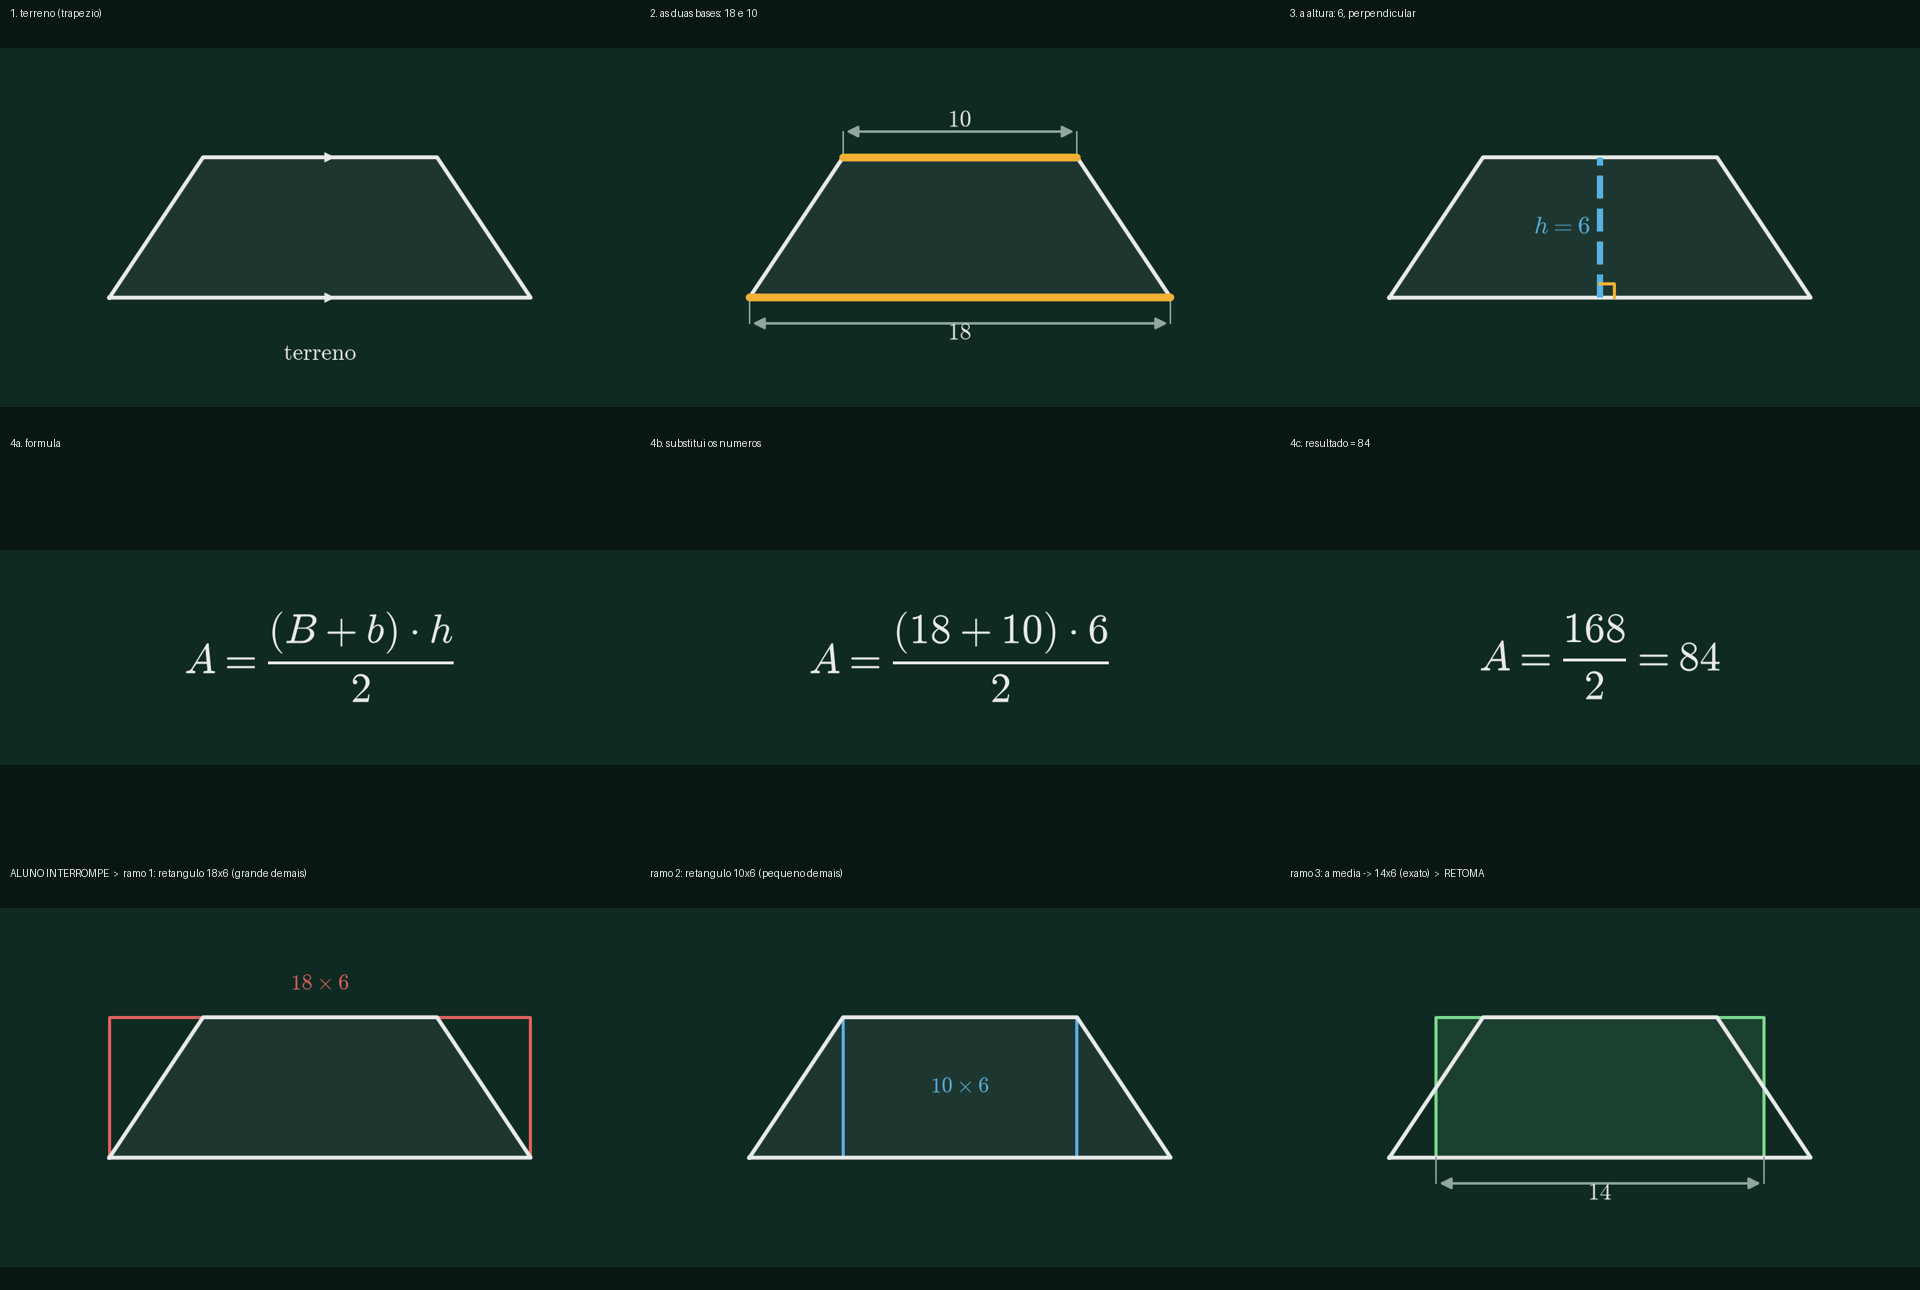
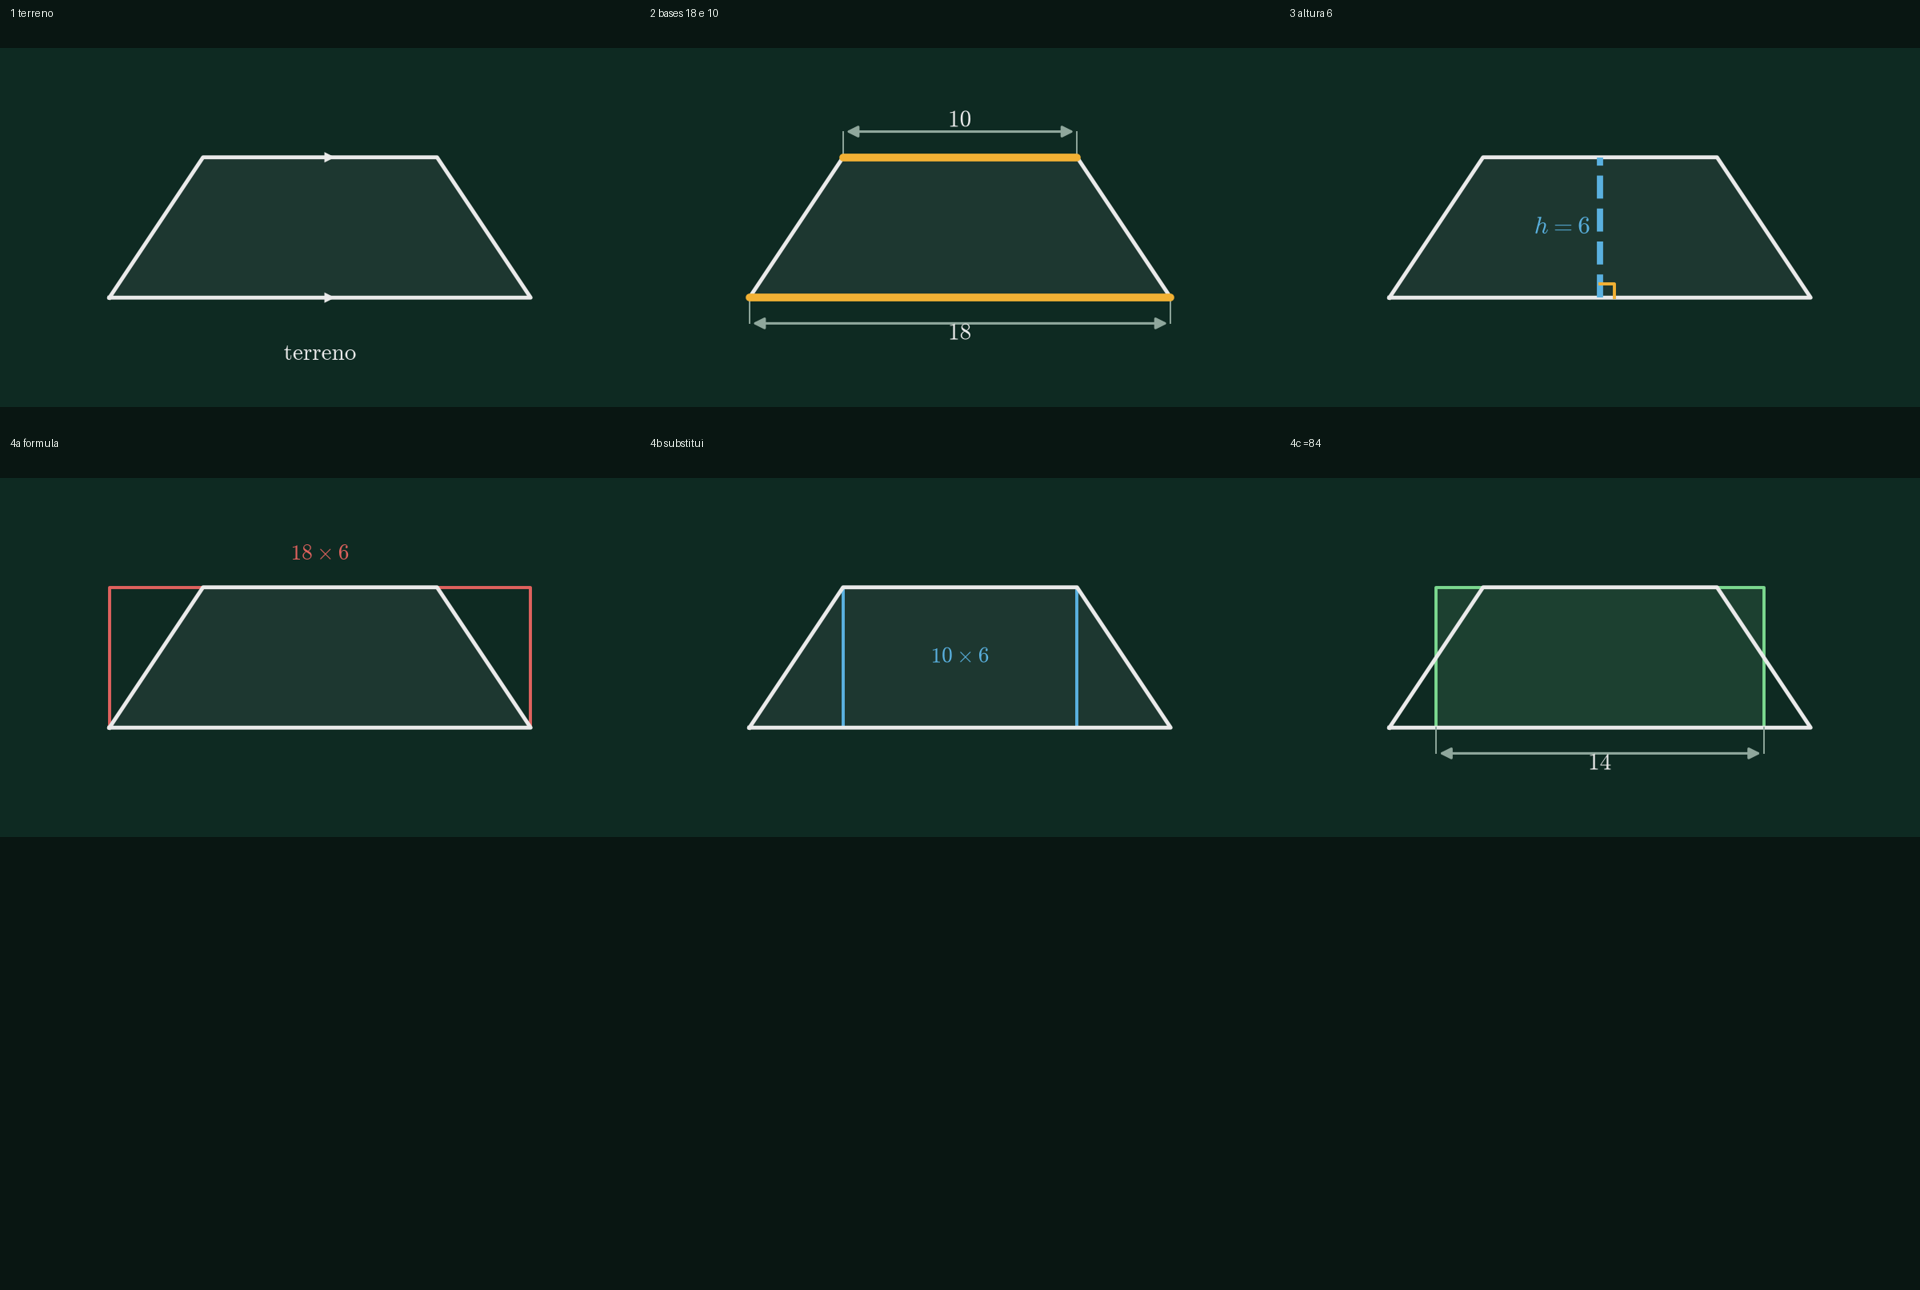
interrupção real + filler; few-shot enxuto
- tocador.py: falar() pode devolver a fala do aluno → classifica → filler
  imediato (fillers.py, banco de frases, zero LLM) → ramo (já na memória) → retoma.
  Interrupção dentro do ramo troca de ramo. Sai do modo 'interrupcoes' scriptado.
- fillers.py: 'estou aqui' instantâneo por gatilho. O padrão 'dois LLMs' que os
  sistemas de voz usam — mas aqui os ramos são pré-escritos, latência zero, então
  o filler é frase fixa. LLM rápido só faria sentido no cold start.
- planejador.py: few-shot virou esqueleto curto (área do triângulo, ~400 tok em
  vez de ~1500). num_ctx 8192 de volta, timeout 200s — o 12288 + few-shot gordo
  estourava o timeout no 3050.
- demo.py: falar() dublê que 'ouve' o aluno num ponto marcado (mesma máquina do
  pipeline de voz).

Claude-Session: https://claude.ai/code/session_01TtQc7aQ6h17sxMqQj9ZgiR

diff --git a/professor/tocador.py b/professor/tocador.py
@@ -1,14 +1,17 @@
 """tocador.py — executa uma Aula. É a "orquestração": LLM ≠ renderizador ≠ voz.
 
-    falar     : injetado — no MVP é print; no produto é o Piper.
-    desenhar  : injetado — no MVP salva PNG; no produto é a tela.
+    falar(texto) -> str | None   injetado. Fala. Se o aluno interromper, devolve a
+                                 fala dele (transcrita); senão, None.
+    desenhar(png, rotulo)        injetado. Mostra a figura.
 
-    t = Tocador()
-    t.toca(aula, interrupcoes={2: "por_que"})   # aluno interrompe no bloco 2
+    t = Tocador(falar=..., desenhar=...)
+    t.toca(aula)                              # interrupção real, via retorno do falar
+    t.toca(aula, interrupcoes={4: "por_que_div_2"})   # demo scriptada (sem voz)
 
-O Tocador não sabe geometria nem aritmética. Ele lê o gerador do bloco, pede pro
-`esquema.GERADORES` renderizar/calcular, e toca. O estado (onde parou, que figura
-está na tela, os dados) mora no `EstadoAula`.
+O Tocador não sabe geometria nem aritmética. Lê o gerador do bloco, pede pro
+`esquema.GERADORES` renderizar/calcular, toca. O estado (onde parou, que figura está
+na tela, os dados) mora no `EstadoAula`. Quem interpreta a fala do aluno é o
+`classificador`; quem dá o "estou aqui" imediato é o `fillers`.
 """
 from __future__ import annotations
 
@@ -16,8 +19,10 @@ import time
 from pathlib import Path
 from typing import Callable
 
+from professor.classificador import classificar
 from professor.esquema import GERADORES, Aula
 from professor.estado import EstadoAula
+from professor.fillers import filler_para
 from professor.figuras import primitivas
 
 _ESPERA = {"curta": 0.35, "media": 0.9, "longa": 1.8, None: 0.55}
@@ -36,6 +41,7 @@ class Tocador:
     # ---------------------------------------------------------------- stubs MVP
     def _falar_stub(self, txt: str) -> None:
         print(f"  🔊 {txt}")
+        return None
 
     def _desenhar_stub(self, png: bytes, rotulo: str) -> None:
         self._n += 1
@@ -51,57 +57,73 @@ class Tocador:
             return g.fn(spec.get("spec", {})), "figura"
         return g.fn(**(spec.get("params") or {})), nome
 
-    def _toca_bloco(self, bloco: dict) -> None:
-        # a figura aparece, o professor fala sobre ela, e a conta se desenrola.
+    def _toca_bloco(self, bloco: dict) -> str | None:
+        """Toca um bloco. Devolve a fala do aluno se ele interrompeu, senão None."""
         if bloco.get("figura"):
             png, rot = self._figura_bytes(bloco["figura"])
             self.desenhar(png, rot)
         if bloco.get("diz"):
-            self.falar(bloco["diz"])
+            fala = self.falar(bloco["diz"])
+            if fala:
+                return fala
         if bloco.get("calc"):
             c = bloco["calc"]
             r = GERADORES[c["gerador"]].fn(**(c.get("params") or {}))
             passos = r.passos if bloco.get("mostra_passos") else r.passos[-1:]
             for i, latex in enumerate(passos):
-                self.desenhar(primitivas.passo(latex), f"passo{i+1}")
+                self.desenhar(primitivas.passo(latex), f"passo{i + 1}")
                 if self.pausas:
                     time.sleep(0.5)
             bloco["_resultado"] = r.valor
         if self.pausas:
             time.sleep(_ESPERA.get(bloco.get("espera"), 0.55))
+        return None
 
     # ---------------------------------------------------------------- topo
-    def toca(self, aula: Aula, *, interrupcoes: dict[int, str] | None = None,
-             classificador: Callable[[str], str] | None = None) -> EstadoAula:
-        """interrupcoes: {n_do_bloco (1-based na principal): gatilho} — demo scriptada."""
+    def toca(self, aula: Aula, *, interrupcoes: dict[int, str] | None = None) -> EstadoAula:
         est = EstadoAula(aula)
-        interrupcoes = dict(interrupcoes or {})
+        script = dict(interrupcoes or {})
         print(f"\n═══ {aula.titulo} ═══")
-        passo_principal = 0
+        n_princ = 0
         while (bloco := est.proximo()) is not None:
             if est.na_principal:
-                passo_principal += 1
-            marca = "│" if est.na_principal else "└─ramo"
-            print(f"{marca} bloco {est.trilha.posicao}")
-            self._toca_bloco(bloco)
+                n_princ += 1
+            print(f"{'│' if est.na_principal else '└'} bloco {est.trilha.posicao}")
+            fala = self._toca_bloco(bloco)
 
-            gat = interrupcoes.pop(passo_principal, None) if est.na_principal else None
+            gat = None
+            if fala:                                   # interrupção real (voz)
+                gat = classificar(fala, est.aula.ramos) or "por_que"
+                print(f'  ✋ "{fala}"  →  {gat}')
+            elif est.na_principal and n_princ in script:   # interrupção scriptada
+                gat = script.pop(n_princ)
+                print(f"  ✋ (script) → {gat}")
+
             if gat:
-                print(f"\n  ✋ aluno interrompe → '{gat}'")
-                if not est.entra_ramo(gat):
-                    print(f"     (sem ramo '{gat}' — professor improvisa)")
-                    self.falar("Boa pergunta. Deixa eu pensar num jeito melhor de mostrar isso.")
-                else:
-                    for rb in est.drena_ramo():
-                        print(f"└─ramo {est.trilha.posicao}")
-                        self._toca_bloco(rb)
-                self.falar("Voltando de onde a gente parou.")
-                print(f"  ↩  {est.resumo()}\n")
+                self._entra_ramo(est, gat)
         print(f"\n■ fim — {est.resumo()}")
         return est
 
+    def _entra_ramo(self, est: EstadoAula, gat: str) -> None:
+        self.falar(filler_para(gat))                    # "estou aqui" imediato
+        if not est.entra_ramo(gat):
+            self.falar("Boa pergunta. Deixa eu achar um jeito melhor de mostrar isso.")
+            return
+        for rb in est.drena_ramo():
+            print(f"  └ ramo {est.trilha.posicao}")
+            nova = self._toca_bloco(rb)
+            if nova:                                    # aluno interrompe DENTRO do ramo
+                g2 = classificar(nova, est.aula.ramos)
+                print(f'    ✋ "{nova}"  →  {g2}')
+                if g2 and g2 != gat:
+                    est.sai_ramo()
+                    self._entra_ramo(est, g2)
+                    return
+        self.falar("Voltando de onde a gente parou.")
+        print(f"  ↩  {est.resumo()}")
+
 
 if __name__ == "__main__":
-    from professor.planejador import planeja_offline
+    from professor.aulas import carregar
 
-    Tocador(pausas=False).toca(planeja_offline(), interrupcoes={3: "por_que"})
+    Tocador(pausas=False).toca(carregar("trapezio"), interrupcoes={4: "por_que_div_2"})

diff --git a/professor/planejador.py b/professor/planejador.py
@@ -19,7 +19,6 @@ import urllib.error
 import urllib.request
 
 from professor import validador
-from professor.aulas import TRAPEZIO
 from professor.esquema import Aula, catalogo_para_prompt
 
 PROVEDOR = os.environ.get("PROF_LLM", "ollama")
@@ -28,14 +27,35 @@ MODELO = os.environ.get("PROF_MODELO", "hermes3:8b")
 CLAUDE_MODELO = os.environ.get("PROF_CLAUDE_MODEL", "claude-sonnet-5")
 
 
+_FEWSHOT = json.dumps({
+    "titulo": "Área do triângulo",
+    "topico": "area_triangulo",
+    "dados": {"base": 8, "altura": 5},
+    "blocos": [
+        {"diz": "Esse é um triângulo. A base mede oito, e a altura, cinco.",
+         "figura": {"gerador": "triangulo", "params": {"tipo": "acutangulo"}},
+         "espera": "media"},
+        {"diz": "A área do triângulo é base vezes altura, dividido por dois.",
+         "calc": {"gerador": "area_triangulo", "params": {"base": 8, "altura": 5}},
+         "mostra_passos": True, "espera": "longa"},
+        {"diz": "Vinte. Essa é a área.", "espera": "media"},
+    ],
+    "ramos": {
+        "por_que_div_2": [
+            {"diz": "Porque o triângulo é metade de um retângulo de mesma base e altura. "
+                    "Encaixa dois triângulos iguais e vira um retângulo.",
+             "figura": {"gerador": "quadrilatero", "params": {"tipo": "retangulo"}},
+             "espera": "longa"}],
+        "nao_entendi": [
+            {"diz": "Sem pressa. Primeiro a base: oito. Depois a altura: cinco. Multiplica: "
+                    "quarenta. Divide por dois: vinte.",
+             "espera": "longa"}],
+    },
+}, ensure_ascii=False)
+
+
 def _fewshot() -> str:
-    """A aula de ouro do trapézio, enxugada — o LLM copia o padrão."""
-    ex = {"titulo": TRAPEZIO["titulo"], "topico": TRAPEZIO["topico"],
-          "dados": {k: TRAPEZIO["dados"][k] for k in ("B", "b", "h")},
-          "blocos": TRAPEZIO["blocos"][:4],
-          "ramos": {"por_que_div_2": TRAPEZIO["ramos"]["por_que_div_2"][:2],
-                    "nao_entendi": TRAPEZIO["ramos"]["nao_entendi"][:1]}}
-    return json.dumps(ex, ensure_ascii=False, indent=1)
+    return _FEWSHOT
 
 PROMPT = f"""Você é o planejador de um professor de matemática que fala e desenha ao vivo.
 
@@ -85,7 +105,7 @@ Regras:
 - 4 a 8 blocos no plano principal. Frases curtas, faladas, como um bom professor.
 - Use SÓ os geradores do catálogo abaixo, com esses parâmetros.
 
-EXEMPLO de um plano bom (área do trapézio):
+EXEMPLO de um plano bom (área do triângulo — copie a ESTRUTURA, não o conteúdo):
 {_fewshot()}
 
 CATÁLOGO:
@@ -93,13 +113,13 @@ CATÁLOGO:
 """
 
 
-def _ollama_json(mensagens: list[dict], *, timeout: float = 120) -> str:
+def _ollama_json(mensagens: list[dict], *, timeout: float = 200) -> str:
     corpo = json.dumps({
         "model": MODELO,
         "messages": mensagens,
         "stream": False,
         "format": "json",
-        "options": {"temperature": 0.2, "num_ctx": 12288},
+        "options": {"temperature": 0.2, "num_ctx": 8192},
     }).encode()
     req = urllib.request.Request(f"{OLLAMA}/api/chat", data=corpo,
                                  headers={"Content-Type": "application/json"})
@@ -107,7 +127,7 @@ def _ollama_json(mensagens: list[dict], *, timeout: float = 120) -> str:
         return json.loads(r.read())["message"]["content"]
 
 
-def _claude_json(mensagens: list[dict], *, timeout: float = 120) -> str:
+def _claude_json(mensagens: list[dict], *, timeout: float = 200) -> str:
     chave = os.environ.get("ANTHROPIC_API_KEY")
     if not chave:
         raise ConnectionError("PROF_LLM=claude mas ANTHROPIC_API_KEY não está definida")
@@ -129,7 +149,7 @@ def _claude_json(mensagens: list[dict], *, timeout: float = 120) -> str:
     return "".join(b.get("text", "") for b in d.get("content", []) if b.get("type") == "text")
 
 
-def _llm_json(mensagens: list[dict], *, timeout: float = 120) -> str:
+def _llm_json(mensagens: list[dict], *, timeout: float = 200) -> str:
     return (_claude_json if PROVEDOR == "claude" else _ollama_json)(mensagens, timeout=timeout)
 
 

diff --git a/demo.py b/demo.py
@@ -1,11 +1,12 @@
-"""demo.py — o Ciclo do Trapézio, ponta a ponta, sem voz (ainda).
+"""demo.py — o Ciclo do Trapézio, ponta a ponta, sem áudio (ainda).
 
-    .venv/bin/python demo.py                 # aluno pergunta "por que /2" no bloco 4
-    .venv/bin/python demo.py e_triangulo 3   # outro ramo, em outro ponto
+    .venv/bin/python demo.py                          # aluno fala "por que /2" no 4º "diz"
+    .venv/bin/python demo.py "e se fosse um triangulo?" 2
 
-Mostra: aula de ouro → tocador → figuras. O aluno "fala" (texto), o classificador
-escolhe o ramo, o EstadoAula empilha/desempilha, a trilha principal retoma.
-out/demo/*.png  +  out/demo-tira.png (a sequência)
+O `falar` aqui é um dublê: imprime a fala do professor e, no momento marcado,
+"ouve" o aluno (devolve a transcrição). O Tocador classifica, dá o filler, entra no
+ramo e retoma — a mesma máquina que o pipeline de voz vai usar.
+out/demo/*.png  +  out/demo-tira.png
 """
 from __future__ import annotations
 
@@ -15,17 +16,24 @@ import sys
 from PIL import Image, ImageDraw
 
 from professor.aulas import carregar
-from professor.classificador import classificar
 from professor.tocador import Tocador
 
-FALAS = {
-    "por_que_div_2": "Peraí… por que que divide por dois?",
-    "nao_entendi": "Calma, não entendi essa parte.",
-    "e_triangulo": "E se fosse um triângulo?",
-    "decompor": "Tem outro jeito? Não decorei essa fórmula.",
-}
-
 OUT = pathlib.Path("out/demo")
+
+
+def falar_dubla(quando: int, fala_aluno: str):
+    """Devolve um `falar` que, na n-ésima chamada, retorna a fala do aluno."""
+    n = [0]
+
+    def falar(texto: str):
+        n[0] += 1
+        print(f"  🔊 {texto}")
+        if n[0] == quando:
+            print(f'\n  🎤 aluno: "{fala_aluno}"')
+            return fala_aluno
+        return None
+
+    return falar
 
 
 def tira(titulo: str):
@@ -33,8 +41,8 @@ def tira(titulo: str):
     if not files:
         return
     th = 300
-    tiles = [Image.open(f).convert("RGB") for f in files]
-    tiles = [t.resize((int(t.width * th / t.height), th)) for t in tiles]
+    tiles = [Image.open(f).convert("RGB").resize(
+        (int(Image.open(f).width * th / Image.open(f).height), th)) for f in files]
     cw = max(t.width for t in tiles) + 10
     m = Image.new("RGB", (cw * len(tiles), th + 46), (8, 20, 16))
     d = ImageDraw.Draw(m)
@@ -47,23 +55,18 @@ def tira(titulo: str):
 
 
 def main():
-    gat = sys.argv[1] if len(sys.argv) > 1 else "por_que_div_2"
-    onde = int(sys.argv[2]) if len(sys.argv) > 2 else 4
-
-    aula = carregar("trapezio")
-    fala = FALAS.get(gat, "por quê?")
-    classificado = classificar(fala, aula.ramos)
-    print(f'aluno (no bloco {onde}): "{fala}"')
-    print(f"classificador → {classificado}\n")
+    fala = sys.argv[1] if len(sys.argv) > 1 else "peraí, por que que divide por dois?"
+    quando = int(sys.argv[2]) if len(sys.argv) > 2 else 4
 
     OUT.mkdir(parents=True, exist_ok=True)
     for f in OUT.glob("*.png"):
         f.unlink()
 
-    t = Tocador(out_dir=str(OUT), pausas=False)
-    est = t.toca(aula, interrupcoes={onde: classificado})
+    aula = carregar("trapezio")
+    t = Tocador(falar=falar_dubla(quando, fala), out_dir=str(OUT), pausas=False)
+    est = t.toca(aula)
     print(f"\nestado final: {est.resumo()}")
-    tira(f"Ciclo do Trapézio — aluno interrompe no bloco {onde}: {classificado}")
+    tira(f"Ciclo do Trapézio — aluno: “{fala}”")
 
 
 if __name__ == "__main__":

diff --git a/professor/fillers.py b/professor/fillers.py
@@ -1,0 +1,33 @@
+"""fillers.py — o "estou aqui" imediato, enquanto o resto carrega.
+
+Sistemas de voz profissionais põem um LLM rápido pra isso. No nosso caso, pro MVP,
+NÃO precisa de LLM: os ramos da aula de ouro já estão na memória (latência zero), e
+o classificador roda em <5 ms. Então o filler é um banco de frases fixas, escolhido
+pelo gatilho. Instantâneo.
+
+    falar(filler_para("por_que_div_2"))   # "Boa pergunta."
+    ... aí toca o ramo (que já está pronto)
+
+Onde um LLM rápido REALMENTE ajudaria: o cold start — aluno faz uma pergunta nova,
+sem aula pronta, e o planejador (Claude, 2-5 s) tem que montar tudo. Aí `GENERICO`
+cobre a espera. Mas isso não é o caminho crítico da demo.
+"""
+from __future__ import annotations
+
+import random
+
+_BANCO: dict[str, tuple[str, ...]] = {
+    "por_que_div_2": ("Boa pergunta.", "Ó só.", "Deixa eu te mostrar de onde vem esse dois."),
+    "por_que": ("Boa pergunta.", "Deixa eu explicar o porquê.", "Então..."),
+    "nao_entendi": ("Sem problema.", "Calma, vamos de novo.", "Deixa eu refazer essa parte."),
+    "e_triangulo": ("Boa.", "Olha que legal.", "Deixa eu te mostrar."),
+    "decompor": ("Tem sim.", "Claro, tem outro jeito.", "Ó, dá pra fazer assim também."),
+    # cold start: aluno pediu algo que não tem aula pronta — cobre a espera do planejador
+    "_planejando": ("Deixa eu montar isso aqui.", "Só um segundo, já vou te mostrar.",
+                    "Boa. Peraí que eu desenho isso."),
+}
+GENERICO = ("Certo.", "Deixa eu ver.", "Um instante.")
+
+
+def filler_para(gatilho: str | None) -> str:
+    return random.choice(_BANCO.get(gatilho or "", GENERICO))
